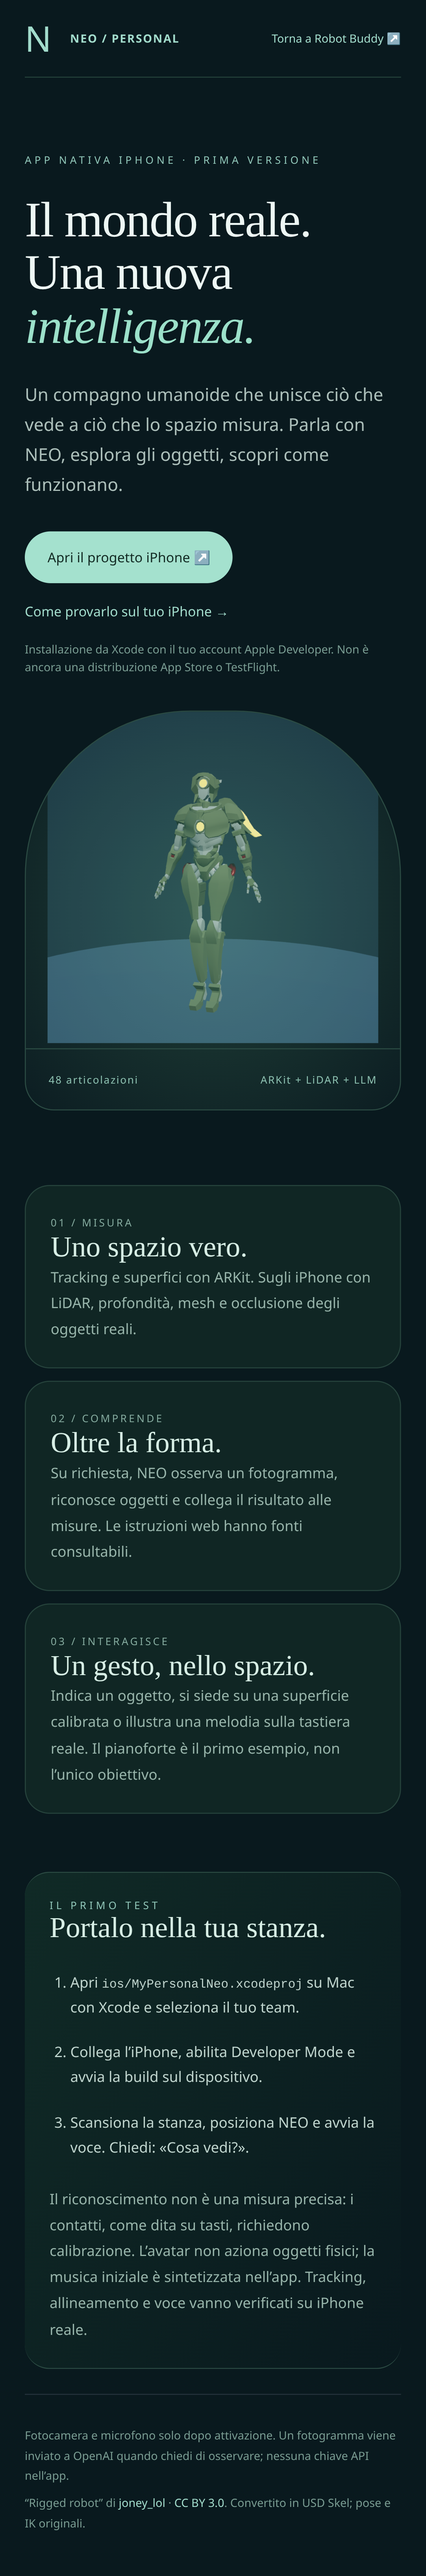
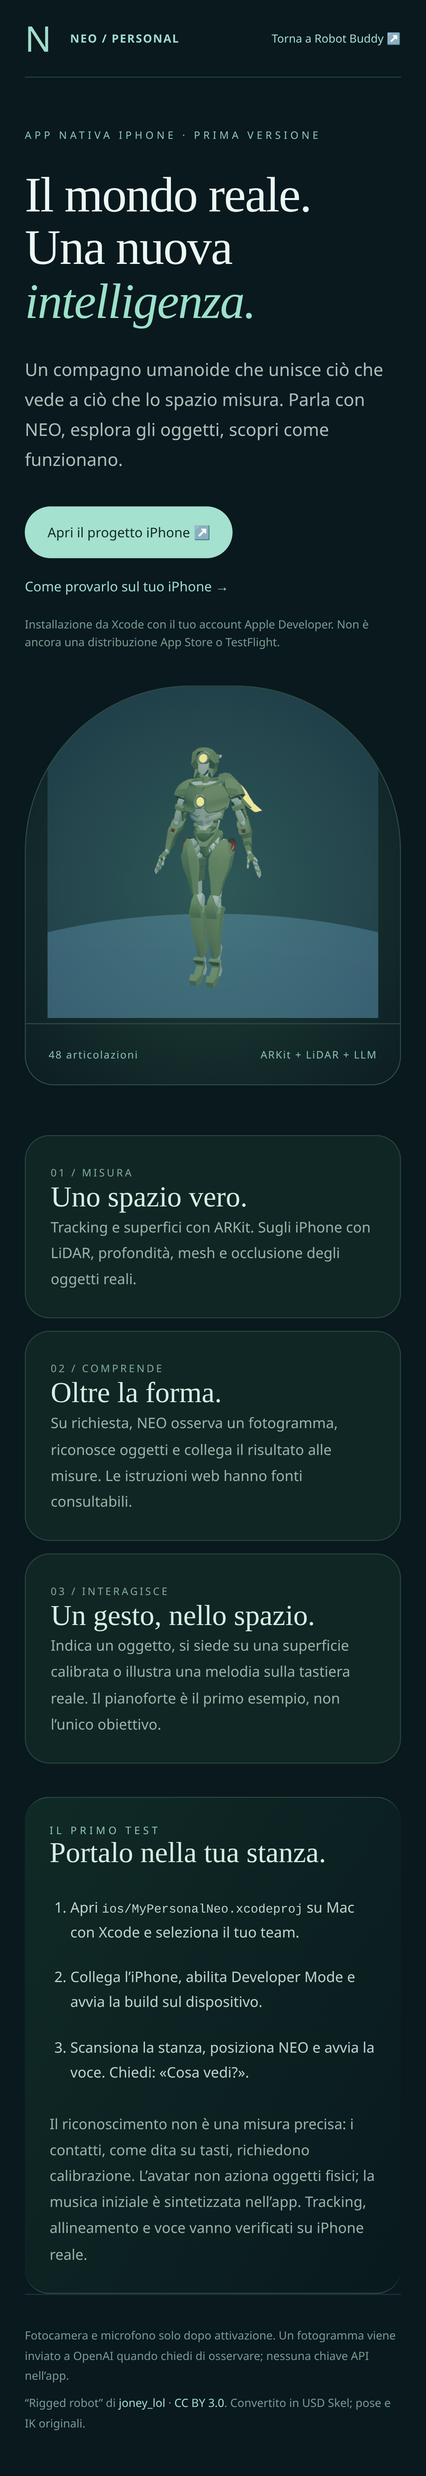
Document verified native iPhone prototype and public backend release

diff --git a/docs/MY_PERSONAL_NEO.md b/docs/MY_PERSONAL_NEO.md
@@ -41,6 +41,16 @@ Nessuna prova fisica o installazione firmata è implicita nei test del simulator
 
 ## Verifica automatica
 
-Progetto Xcode e workflow macOS predisposti. Conversione OpenUSD verificata in Linux: topologia valida, 48 joint, 6 binding mesh, 18.299 triangoli, riapertura USDZ riuscita. Test backend e iOS documentati al termine della build. Le misurazioni hardware non sono ancora disponibili.
+Progetto Xcode e workflow macOS predisposti. Conversione OpenUSD verificata in Linux: topologia valida, 48 joint, 6 binding mesh, 18.299 triangoli, riapertura USDZ riuscita. Lint/typecheck, build Node/client e verifica segreti passati; **223 test Node/shared**, **209 Sites/shared/route** e build Sites passati. Tutti i **33 casi browser** passati fra suite e ritest mirati su desktop Chromium, Android emulato e WebKit/iPhone. Un test clock è stato stabilizzato lasciando partire l’intervallo narrativo prima del fast-forward; le librerie WebKit mancanti sono state caricate in una directory temporanea. Audio/WebRTC browser simulati. [Portale desktop](validation/personal-neo/portal-desktop.png), [Android](validation/personal-neo/portal-android.png), [iPhone](validation/personal-neo/portal-iphone.png).
+
+La compilazione nativa app/test e il passaggio dei test sul simulatore sono verificati sul runner macOS con Xcode 16.4 per il codice Swift `e6fa330`. Pipeline: https://github.com/technology4punks/mr4p/actions/runs/39119838819. Import reale USD Skel verificato nel simulatore intermedio: 48 joint e posa animata; RealityKit aggrega le sei mesh USD in un ModelEntity, quindi il test finale controlla lo scheletro e il movimento, non il numero di nodi interni dell’importer. I test core coprono tastiera/calibrazione, proiezione immagine e gate vocale. Il manifest privacy dichiara i contenuti inviati ai servizi AI; le sue modifiche dichiarative successive sono validate anche con parser plist. Le misurazioni hardware non sono ancora disponibili.
 
 Fonti tecniche: [scene reconstruction ARKit](https://developer.apple.com/documentation/arkit/arworldtrackingconfiguration/scenereconstruction), [scene depth](https://developer.apple.com/documentation/arkit/arconfiguration/framesemantics-swift.struct/scenedepth), [RealityKit joint transforms](https://developer.apple.com/documentation/realitykit/hasmodel/jointtransforms), [WebRTC OpenAI](https://developers.openai.com/api/docs/guides/voice-webrtc). Consultate il 18 ottobre 2026. Licenze/rig: [guida iOS](../ios/README.md), [manifest](../ios/MyPersonalNeo/Resources/AvatarManifest.json).
+
+## Pubblicazione backend e pagina · 18 ottobre 2026
+
+Sites **versione 24**, distribuzione `succeeded` alle **10:34:41 UTC**: [pagina pubblica](https://neo-mr-avatar-test.sk1kko.chatgpt.site/personal-neo), [Robot Buddy invariato](https://neo-mr-avatar-test.sk1kko.chatgpt.site). Commit sorgente Sites `ab1af6bf75feb5d18138e134865d4f647c9bd811`, deploy `appgdep_6ad4a0ad65108191a6c3a890aba1e9fd`. Ambiente revision 6 preservato, nessuna rotazione chiavi o migrazione dati nuova. La pagina è accesso al progetto/guida, non un’installazione dell’app nativa.
+
+Smoke live anonimo passato: pagina, token personale **200** con sola verifica del valore effimero senza stamparlo, visione strutturata **200** su illustrazione sintetica (un oggetto), ricerca web reale **200** con una fonte, control room anonima **401**, ingresso Robot Buddy senza login e zero errori JavaScript. [Esiti](validation/personal-neo/public-smoke-v24.json), [pagina distribuita](validation/personal-neo/public-v24.png). Microfono negato nel browser: nessuna prova di voce live o ambiente iPhone reale.
+
+Per l’installazione sul dispositivo usare il progetto Xcode e il team del proprietario; non sono stati creati certificati, provisioning, IPA firmate, upload App Store o inviti TestFlight.

diff --git a/ios/README.md b/ios/README.md
@@ -40,7 +40,7 @@ Il contatto dita/tasti, la posa seduta e la geometria vanno validati su iPhone/p
 
 Lo schema **MyPersonalNeo** comprende `MyPersonalNeoTests`: mapping tasti e rotazione, calibrazioni non valide, coordinate immagine/depth, autorizzazione dei turni e caricamento effettivo del rig USDZ. La pipeline `.github/workflows/personal-neo-ios.yml` esegue `xcodebuild test` su macOS con simulatore iPhone senza firma. Il simulatore non può verificare ARKit/LiDAR fisici. I risultati verificati sono in [docs/MY_PERSONAL_NEO.md](../docs/MY_PERSONAL_NEO.md).
 
-Per distribuire via TestFlight: dopo il test dispositivo, imposta bundle ID/team/versione, crea la scheda App Store Connect, seleziona **Any iOS Device → Product → Archive → Distribute App → App Store Connect**. Aggiungi tester e compila le dichiarazioni privacy, inclusa la trasmissione a OpenAI e le eventuali conservazioni del provider. Non è stato eseguito alcun upload né creata una distribuzione TestFlight; non servono certificati per leggere o testare il progetto nel simulatore.
+Per distribuire via TestFlight: dopo il test dispositivo, imposta bundle ID/team/versione, crea la scheda App Store Connect, seleziona **Any iOS Device → Product → Archive → Distribute App → App Store Connect**. Aggiungi tester e verifica le dichiarazioni privacy (il manifest include foto/video, audio e contenuti utente inviati all’AI per funzionalità dell’app, senza tracking o identificativo utente allegato), inclusa la trasmissione a OpenAI e le eventuali conservazioni del provider. Non è stato eseguito alcun upload né creata una distribuzione TestFlight; non servono certificati per leggere o testare il progetto nel simulatore.
 
 ## Asset e riproducibilità
 

diff --git a/docs/VALIDATION.md b/docs/VALIDATION.md
@@ -1,3 +1,11 @@
+# My Personal Neo iPhone · 18 ottobre 2026
+
+Nuovo target nativo separato: [progetto, prove e limiti](MY_PERSONAL_NEO.md). Backend Node/client: lint, typecheck, build, **223 test** e bundle scan passati. Sites: typecheck, **209 test** e build passati. Tutti i **33 casi browser** verificati fra suite e ritest mirati, inclusi portale separato, percorso Buddy e control room. WebKit inizialmente bloccato da librerie host mancanti: dipendenze caricate in directory temporanea e tutti gli 11 casi ripassati; stabilizzato l’avvio del clock del test guidato.
+
+Versione Sites 24 pubblicata; API personali live voce/visione/web search **200**, sorgenti consultabili, control room anonima **401**, Buddy pubblico invariato. Visione provata su immagine sintetica; browser audio simulato/negato. Build nativa app/test e test sul simulatore passati su macOS/Xcode 16.4 per il codice Swift e6fa330; pipeline e dettagli in MY_PERSONAL_NEO.md. Nessun iPhone o Quest fisico, allineamento dita/tasti, latenza voce, misura termica/FPS hardware o upload firmato verificato.
+
+---
+
 # Visita guidata e control room · 13 ottobre 2026
 
 `npm run check` passato: lint, typecheck, build Node/client, **217 test** e verifica segreti nel bundle. Sites: typecheck, **206 test** e build Vinext passati. **30 test browser passati in un’unica esecuzione (9,6 minuti)** su desktop Chromium, Android emulato e iPhone WebKit. Nuove regressioni: ingresso dopo saluto facoltativo, deadline, frase conclusiva, consenso esplicito, backend indisponibile, coda seriale/ack, revoca prima di un invio tardivo, retention e allowlist backend. I test precedenti verificano anche il percorso libero e tre turni audio simulati.
